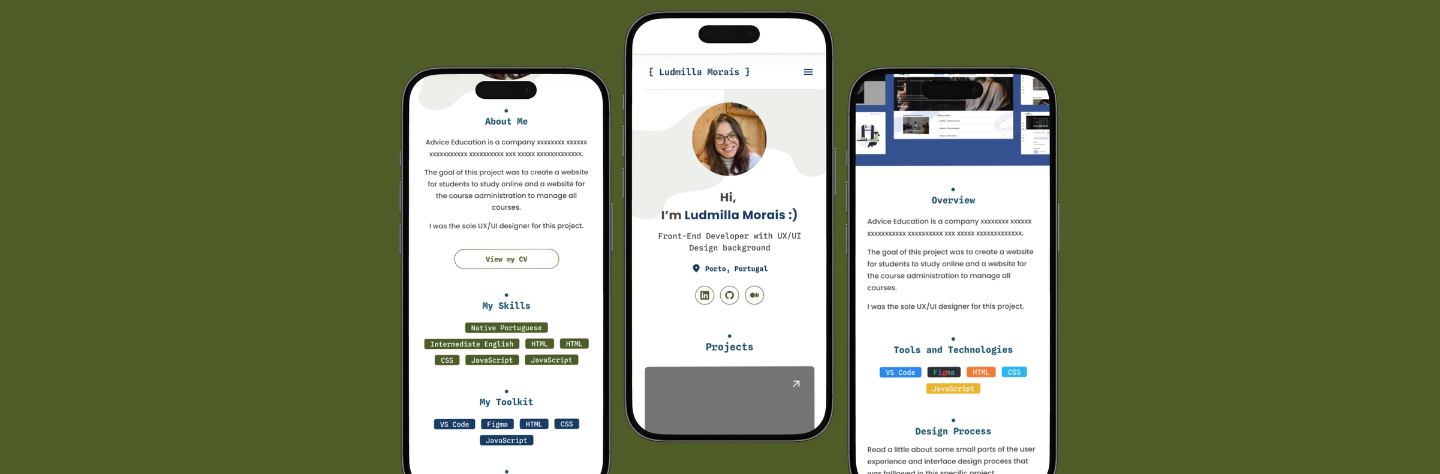
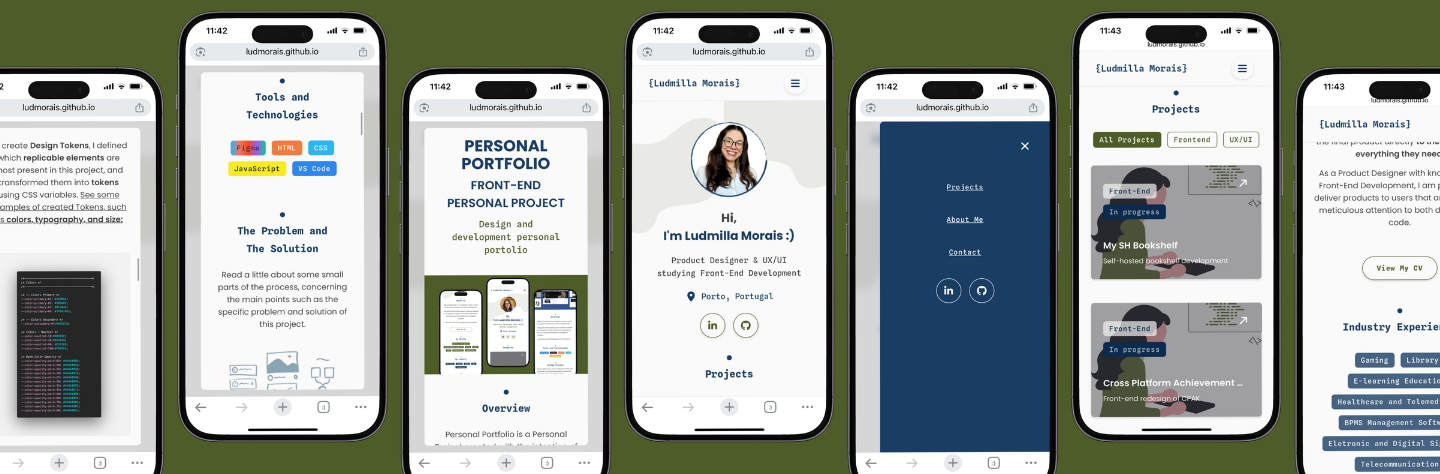
mockup portfolio project updated

diff --git a/javascript/projects-data.js b/javascript/projects-data.js
@@ -254,7 +254,7 @@ export const projects = [
         </p>
       </div>
     `,
-    image_solution: "/assets/images/image_solution/cropfix-solution.png"
+    image_solution: "/assets/images/image_solution/portfolio-solution.png"
   },
 
   // CPAK
